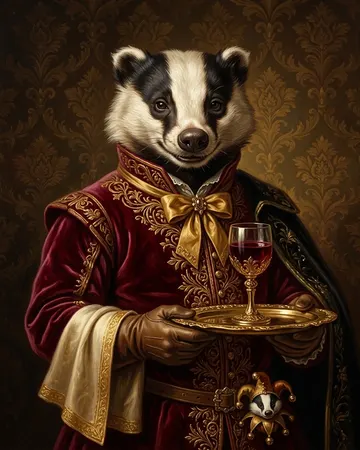
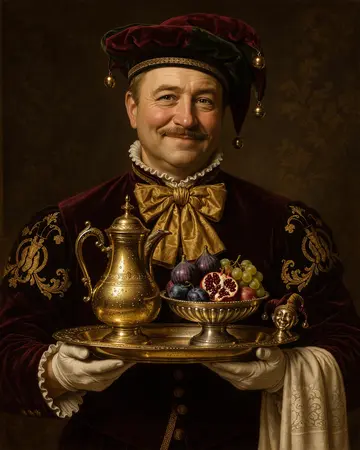
Grafik: Mundschenk und Festschmaus ohne Alkohol neu gemalt (Refs #329)
Zwei Altbilder mit Weinglas und Bierkrug mit der Canva-Bilderzeugung ersetzt
(Auswahl durch Cornelius), Originale im privaten Grafik-Repo, Einträge aus
originale-fehlen.json gestrichen, eigener Zuschnitt für das Medaillon,
THIRD_PARTY.md, Stilbibel und Chronik ergänzt.

Claude-Session: https://claude.ai/code/session_01Sv6QFucp9WvkSpksUurVDc

diff --git a/docs/grafik/STILBIBEL.md b/docs/grafik/STILBIBEL.md
@@ -10,7 +10,7 @@ Ein Märchen-Königreich mit **Taverne, Narrenhof, Jahrmarkt und Turnierplatz**.
 
 **Kein Alkohol, kein Tabak, keine Drogen** (Cornelius, 13.11.2026): Auch in der Taverne gibt es **keine Bierkrüge, Weingläser, Flaschen mit Schnaps oder Wein, Bierfässer, Betrunkenen, Pfeifen oder Zigaretten**. Getrunken wird – wenn überhaupt – Wasser, Milch, Saft, Tee oder Kakao aus Bechern, Kannen und Tassen; Fässer und Krüge nur, wenn klar ist, dass etwas anderes darin ist (Äpfel, Mehl, Wasser), sonst weglassen. Die Sammlung ist für Kinder und Klassen gedacht.
 
-**Altbestand, der dagegen verstößt** (vor dem 13.11.2026 erzeugt, beim Neuerzeugen ersetzen; Prompts in den Manifesten sind schon berichtigt): Narrenhof-Mundschenk `packages/games/color-sorter/src/ui/portraits/fool-cupbearer-1.webp` (Rotweinglas), Medaillon „Festschmaus“ `packages/games/color-sorter/src/ui/items/tag-stock.webp` (Bierkrug). Fraglich, bitte ansehen: Flaschen im Hintergrund der Tavernenwirtin `packages/games/marketplace/src/ui/figures/innkeeper.webp` und auf dem Kaminsims im Hauptmenü `apps/web/src/menu/taverne-*.webp`, Pokale im Narrenhof-Thronsaal `packages/games/color-sorter/src/ui/kulissen/thronsaal.webp`. Durchgesehen wurden nur die Szenen, Medaillon-Namen und Prompts, nicht jedes der 286 Porträts.
+**Altbestand, der dagegen verstößt** (vor dem 13.11.2026 erzeugt, beim Neuerzeugen ersetzen; Prompts in den Manifesten sind schon berichtigt): Der Narrenhof-Mundschenk (`fool-cupbearer-1.webp`) und das Medaillon „Festschmaus“ (`tag-stock.webp`) sind am 21.11.2026 ersetzt (#329). Fraglich, bitte ansehen: Flaschen im Hintergrund der Tavernenwirtin `packages/games/marketplace/src/ui/figures/innkeeper.webp` und auf dem Kaminsims im Hauptmenü `apps/web/src/menu/taverne-*.webp`, Pokale im Narrenhof-Thronsaal `packages/games/color-sorter/src/ui/kulissen/thronsaal.webp`. Durchgesehen wurden nur die Szenen, Medaillon-Namen und Prompts, nicht jedes der 286 Porträts.
 
 Gemalt wird wie ein **Ölbild alter Meister bzw. ein Märchenbuch**: sichtbarer Pinselduktus, reiche Stoffe (Samt, Brokat, Pelzbesatz), warmes Kerzen- und Laternenlicht, tiefe Farben mit Gold. **Keine Schrift im Bild** – Namen, Werte und Beschriftungen setzt immer die Oberfläche.
 

diff --git a/docs/CHRONIK.md b/docs/CHRONIK.md
@@ -8,6 +8,8 @@ Was wann umgesetzt wurde, mit Dateipfaden und Entscheidungen. Bis zum 12.11.2026
 
 ## Nachträge ab 12.11.2026
 
+**Grafik: zwei Altbilder mit Alkohol ersetzt (21.11.2026, #329):** `fool-cupbearer-1.webp` (Mundschenk, jetzt Krug mit Wasser und Obstschale) und `tag-stock.webp` („Festschmaus“, jetzt Krug mit Saft) neu mit der Canva-Bilderzeugung gemalt, Auswahl durch Cornelius, Originale im privaten Repo; beide Einträge sind aus `scripts/grafik/originale-fehlen.json` gestrichen. Der Mundschenk ist jetzt ein Mensch statt eines Dachses. `jahrmarkt-2.json` trägt für `tag-stock` einen eigenen `zuschnittRand` von 0,03, damit der Goldring des Medaillons nicht angeschnitten wird. Offen in #329: Entscheidung über Tavernenwirtin, Hauptmenü, Thronsaal und Marktplatz-Feld „Taverne“; Durchsicht der übrigen Porträts und Medaillons.
+
 **Maulwurfsgänge: Bot-Porträt „Wühlmaus“ (21.11.2026, #567):** Porträt `packages/ui/src/bots/portraits/bot-wuehlmaus.webp` (256 × 256 px, mit der Canva-Bilderzeugung gemalt, Auswahl durch Cornelius, Original im privaten Repo), Eintrag `wuehlmaus` im Manifest `scripts/grafik/manifeste/bots.json`; `BOT_NAMES` und `BOT_BY_GAME['mole-tunnels']` in `apps/web/src/lib/botPortraits.ts`. Spielerleiste und Lobby zeigen damit „Wühlmaus“ statt „allgemeine Bots der Engine“. Der Krämer (Marktplatz) bleibt der Maulwurf, die Wühlmaus ist bewusst eine Wühlmaus mit runder Schnauze.
 
 **Maulwurfsgänge: Wappen (21.11.2026, #568):** Eigenes Wappen `apps/web/src/wappen/mole-tunnels.webp` (160 × 184 px), erstmals mit der Canva-Bilderzeugung statt Gemini gemalt (drei Varianten, Auswahl durch Cornelius; Original im privaten Repo). Eintrag im Manifest `scripts/grafik/manifeste/wappen.json`. Die Ausnahme `WITHOUT_CREST` in `tests/repo.test.ts` ist leer; die Startseite zeigt statt des Emojis das Wappen. Offen: Bot-Porträt „Wühlmaus“ (#567).

diff --git a/THIRD_PARTY.md b/THIRD_PARTY.md
@@ -154,6 +154,10 @@ Die 47 Porträts der Computergegner (`packages/ui/src/bots/portraits/bot-*.webp`
 
 Das Porträt der Wühlmaus (`packages/ui/src/bots/portraits/bot-wuehlmaus.webp`, Maulwurfsgänge, #567) entstand im November 2026 mit der Bilderzeugung von Canva nach demselben Stil-Kopf; Auswahl aus drei Varianten und Zuschnitt durch Cornelius Lipponer, Eintrag `wuehlmaus` im Manifest `bots.json`, das Original liegt im privaten Repo `ichthys2k/brett-und-blatt-grafik`.
 
+## Ersatzbilder ohne Alkohol im Narrenhof (KI-erzeugt)
+
+Der Narrenhof-Mundschenk (`packages/games/color-sorter/src/ui/portraits/fool-cupbearer-1.webp`) und das Medaillon „Festschmaus“ (`packages/games/color-sorter/src/ui/items/tag-stock.webp`) ersetzen am 21.11.2026 zwei ältere Bilder mit Weinglas und Bierkrug (#329): **KI-erzeugt** mit der Bilderzeugung von Canva nach den berichtigten Bildbeschreibungen in `scripts/grafik/manifeste/narren.json` und `jahrmarkt-2.json`. Auswahl aus je drei Varianten und Zuschnitt durch Cornelius Lipponer; die Originale liegen im privaten Repo `ichthys2k/brett-und-blatt-grafik`. Der Mundschenk ist eine frei erfundene Figur, keine echte Person.
+
 Sie stehen wie die übrigen Inhalte unter CC BY-SA 4.0 (Brett & Blatt). Hinweis: Die Bilder sind KI-erzeugt; ob an ihnen ein Urheberrecht besteht, ist rechtlich nicht abschließend geklärt.
 
 ## Kulissen je Rubrik und Spiel (KI-erzeugt)
